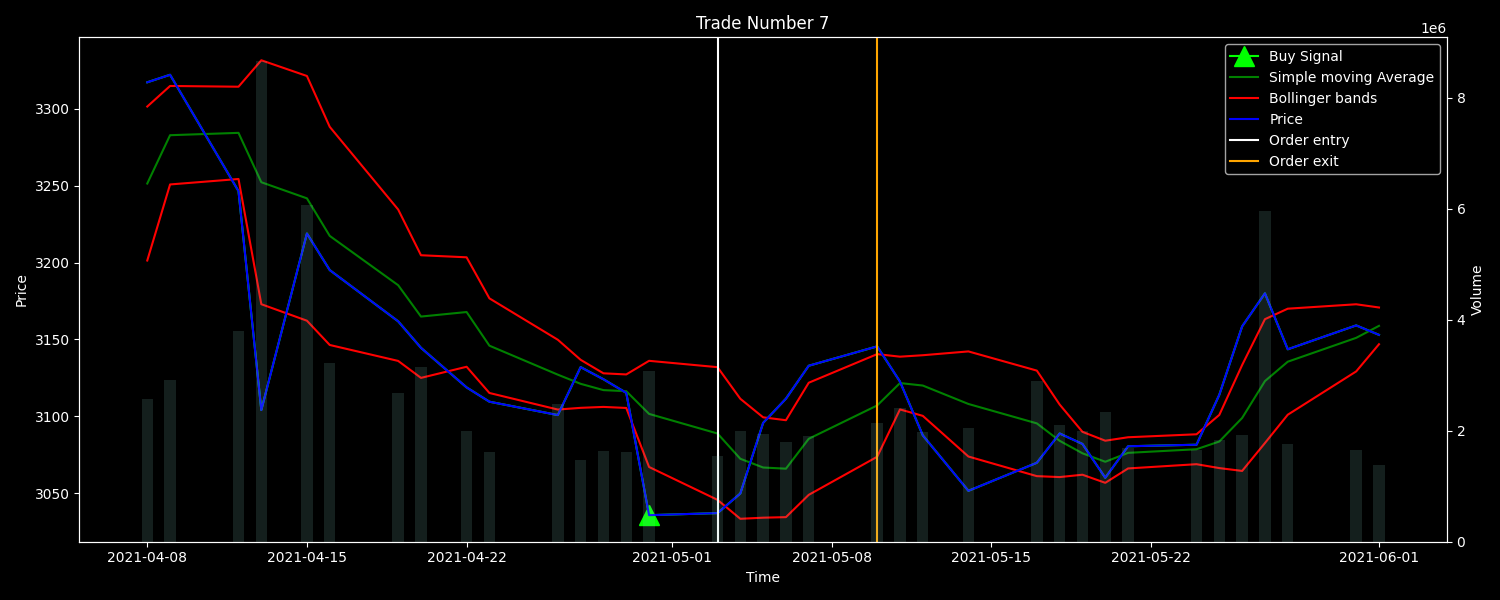
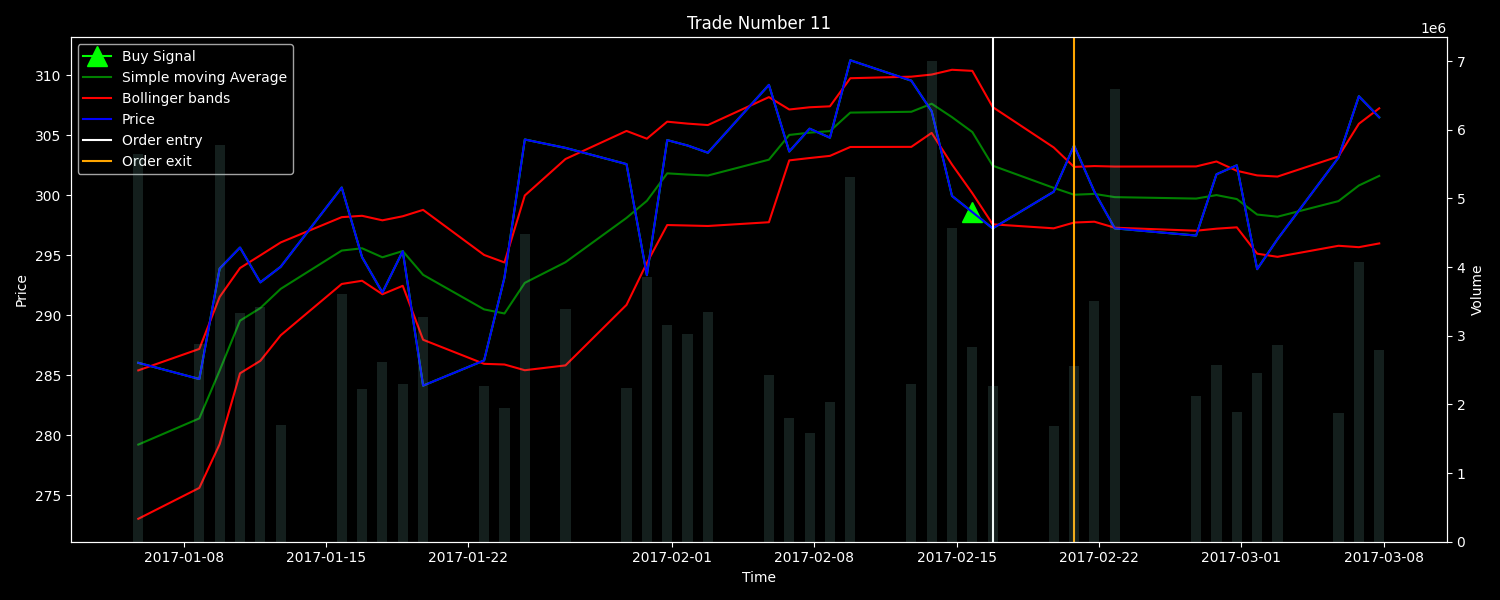
Completed main REST APIs

diff --git a/restapi/backtester/views.py b/restapi/backtester/views.py
@@ -15,6 +15,12 @@ from strategies.models import TickerData
 from services.IndicatorCalc.indicators import BollingerIndicator
 from services.SignalGeneration.bbsignalgeneration import BBSignalGenerator
 from services.Visualizations.signal_visualization import SignalVisualization
+from services.Visualizations.trade_visualization import TradeVisualization
+
+from services.OrderExecution.calctakeprofitstoploss import TakeProfitAndStopLossBB
+from services.OrderExecution.orderexecution import OrderExecution
+from services.TradeEvaluation.tradeevaluator import TradeEvaluator
+
 
 @api_view(['GET', ])
 def api_index(req, slug):
@@ -68,27 +74,74 @@ def api_get_backtest_trade_data(req, backtest_trade_id):
 
 
 def api_get_backtest_signal_visualization(req, backtest_id):
+    try:
+        backtest = BackTestReport.objects.get(id=backtest_id)
 
-    backtest = BackTestReport.objects.get(id=backtest_id)
+        df = Getter(table_name=TickerData, df_flag=True, param_list={'company': backtest.company,
+                                                                     'time_stamp__range': [backtest.start_date_time,
+                                                                                           backtest.end_date_time]}) \
+            .get_data()
 
-    df = Getter(table_name=TickerData, df_flag=True, param_list={'company': backtest.company,
-                                                                 'time_stamp__range': [backtest.start_date_time,
-                                                                                       backtest.end_date_time]}) \
-        .get_data()
+        df.drop(['id', 'company_id', 'time_period'], axis=1, inplace=True)
 
-    df.drop(['id', 'company_id', 'time_period'], axis=1, inplace=True)
+        df = BBSignalGenerator(
+            indicator=BollingerIndicator(
+                df=df,
+                time_period=backtest.strategy_config.indicator_time_period,
+                dimension=backtest.strategy_config.get_dimension_display(),
+                sigma=backtest.strategy_config.sigma,
+            )
+        ).generate_signals()
 
-    df = BBSignalGenerator(
-        indicator=BollingerIndicator(
-            df=df,
-            time_period=backtest.strategy_config.indicator_time_period,
-            dimension=backtest.strategy_config.get_dimension_display(),
-            sigma=backtest.strategy_config.sigma,
-        )
-    ).generate_signals()
+        res = {
+            "img": SignalVisualization(df=df, columns=list(df.columns), height=20, width=100).get_visualization()
+        }
 
-    res = {
-        "img": SignalVisualization(df=df, columns=list(df.columns), height=20, width=100).get_visualization()
-    }
+        return JsonResponse(res)
+    except:
+        return Response(status=status.HTTP_404_NOT_FOUND)
 
-    return JsonResponse(res)
+
+def api_get_backtest_trade_visualization(req, backtest_trade_id):
+    try:
+        bt_trade = BackTestTrade.objects.get(id=backtest_trade_id)
+
+        trade_number = list(BackTestTrade.objects.filter(back_test_report=bt_trade.back_test_report)).index(bt_trade) + 1
+
+        df = Getter(table_name=TickerData, df_flag=True, param_list={'company': bt_trade.back_test_report.company,
+                                                                     'time_stamp__range': [
+                                                                         bt_trade.back_test_report.start_date_time,
+                                                                         bt_trade.back_test_report.end_date_time
+                                                                     ]}).get_data()
+
+        df.drop(['id', 'company_id', 'time_period'], axis=1, inplace=True)
+
+        df = BBSignalGenerator(
+            indicator=BollingerIndicator(
+                df=df,
+                time_period=bt_trade.back_test_report.strategy_config.indicator_time_period,
+                dimension=bt_trade.back_test_report.strategy_config.get_dimension_display(),
+                sigma=bt_trade.back_test_report.strategy_config.sigma,
+            )
+        ).generate_signals()
+
+        # Add take profit and stop loss price
+        df = TakeProfitAndStopLossBB(df=df, dimension=bt_trade.back_test_report.strategy_config.get_dimension_display(),
+                                     factor=bt_trade.back_test_report.strategy_config.take_profit_factor).get_calc_df()
+
+        # Execute orders
+        df = OrderExecution(df=df, max_holding_period=bt_trade.back_test_report.strategy_config.max_holding_period,
+                            dimension=bt_trade.back_test_report.strategy_config.get_dimension_display()).execute()
+
+        # Evaluate trades
+        df = TradeEvaluator(df=df).get_evaluated_df()
+
+        res = {
+            "img": TradeVisualization(df=df, columns=list(df.columns), height=6, width=15, trade_number=trade_number)
+                .get_visualization()
+        }
+
+        return JsonResponse(res)
+
+    except:
+        return Response(status=status.HTTP_404_NOT_FOUND)

diff --git a/restapi/services/Visualizations/trade_visualization.py b/restapi/services/Visualizations/trade_visualization.py
@@ -26,6 +26,18 @@ class TradeVisualization(Visualization):
         # determine type of trade
         trade_type = trades_df['SIGNAL'][self.trade_number - 1]
 
+        # determine start and end indexes
+        start_index = self.trade_number - 1 - 10
+        end_index = trades_df['order_exit_index'][self.trade_number - 1] + 10
+
+        if start_index < 0:
+            start_index = 0
+
+        if end_index > (len(self.df) - 1):
+            end_index = len(self.df) - 1
+
+        self.df = self.df.iloc[start_index:end_index+1].reset_index()
+
         # convert timestamps to datetime objects if strings
         if type(self.df['time_stamp'][0]) == str:
             self.df['time_stamp'] = list(
@@ -73,7 +85,7 @@ class TradeVisualization(Visualization):
         ax1.legend()
         fig.tight_layout()
 
-        # plt.savefig("/home/app/restapi/services/Visualizations/test_trade_visualization.png", dpi=100)
+        plt.savefig("/home/app/restapi/services/Visualizations/test_trade_visualization.png", dpi=100)
 
         pic_io_bytes = io.BytesIO()
 
@@ -81,4 +93,4 @@ class TradeVisualization(Visualization):
         pic_io_bytes.seek(0)
         pic_hash = base64.b64encode(pic_io_bytes.read())
 
-        return pic_hash
+        return str(pic_hash)[2:-1]

diff --git a/restapi/backtester/urls.py b/restapi/backtester/urls.py
@@ -9,6 +9,8 @@ urlpatterns = [
 
     path('allbacktesttrades/<int:backtest_id>/', views.api_get_all_backtest_trades, name='api_get_backtest_data'),
     path('backtesttradedata/<int:backtest_trade_id>/', views.api_get_backtest_trade_data, name='api_get_backtest_data'),
+    path('backtesttradevisualization/<int:backtest_trade_id>/', views.api_get_backtest_trade_visualization,
+         name='api_get_backtest_trade_visualization'),
 
     path('<slug>/', views.api_index, name='api_index')
 ]

diff --git a/restapi/README.md b/restapi/README.md
@@ -89,9 +89,9 @@
   - Given backtest id, Generates and returns signals visualization of backtest ![done]
   - Generate correct viz ![done]
   - Return a base 64 string with image data ![done]
-- `GET` Backtest Trade visualization ![varunincomplete]
-  - Given backtest trade id, Generates and returns visualization of trade
-  - How to return images - Base 64 string
+- `GET` Backtest Trade visualization ![varuncomplete]
+  - Given backtest trade id, Generates and returns visualization of trade ![done]
+  - How to return images - Base 64 string ![done]
 - `GET` Paper trades ![varunincomplete]
   - design **To be done later**
 - `GET` Current Quote ![varunincomplete]
